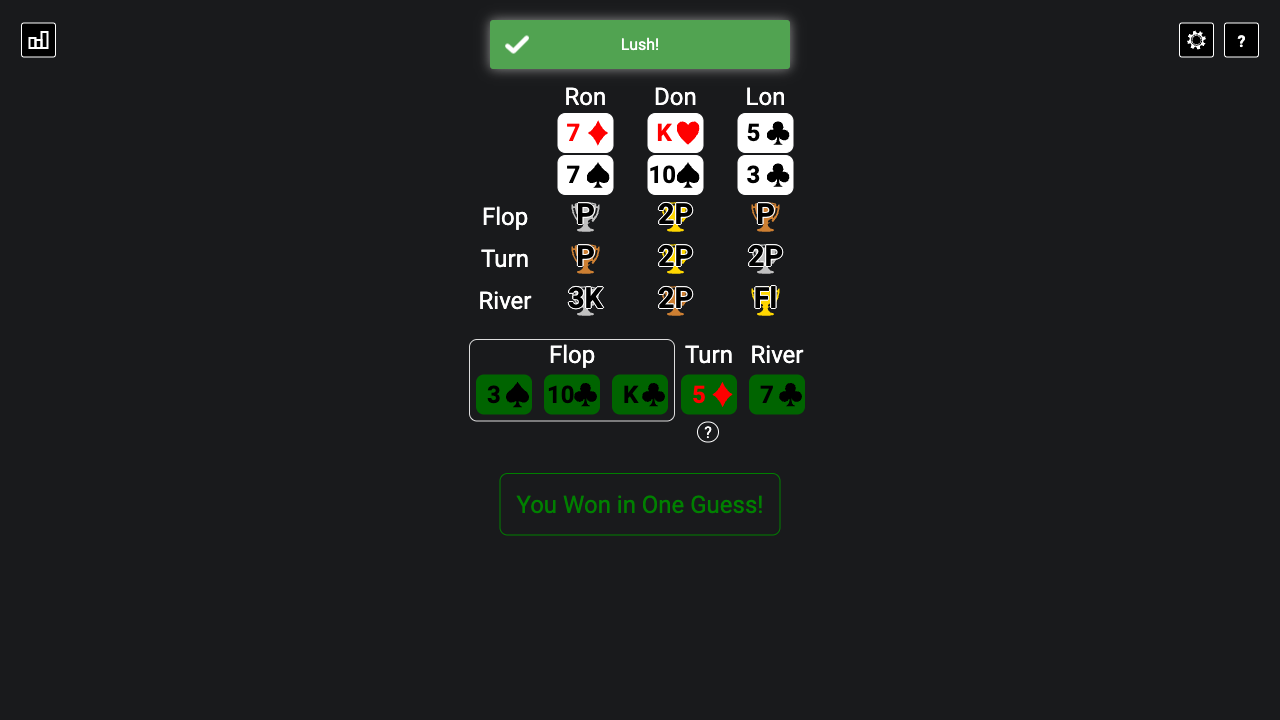
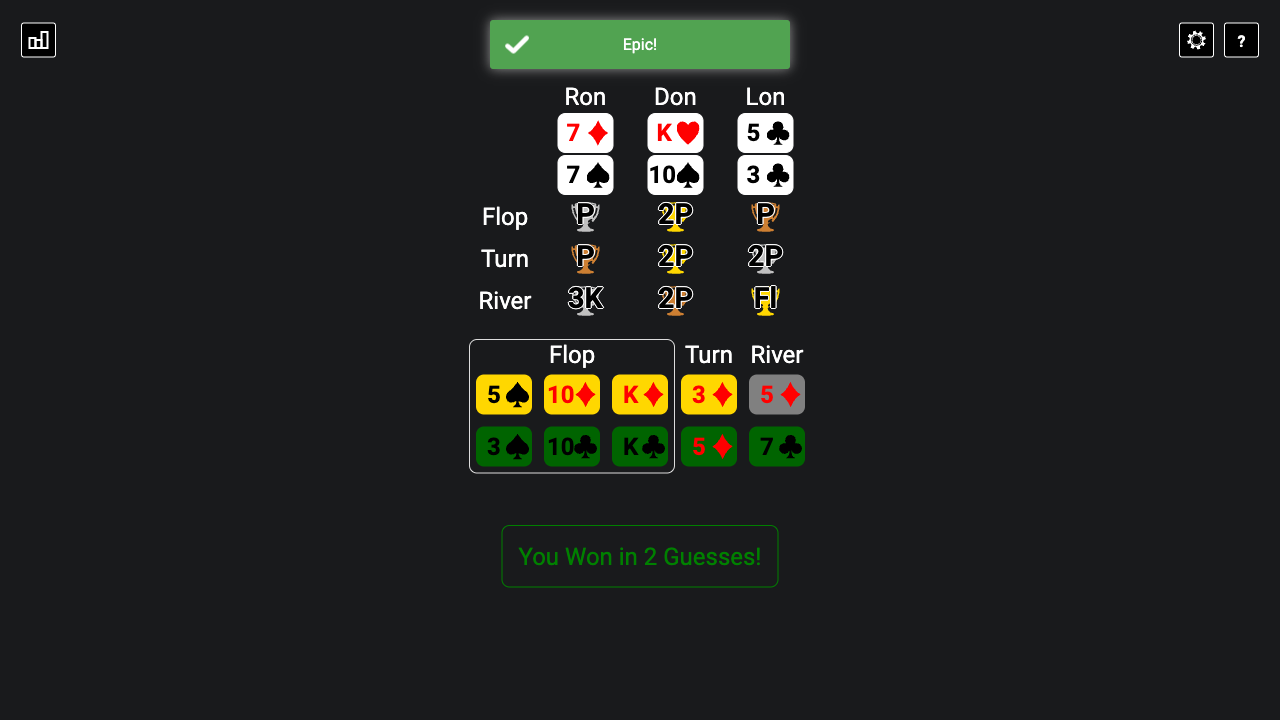
game id

Changed region(s): [[0.3438, 0.5194, 0.6562, 0.7944], [0.4688, 0.0611, 0.5, 0.0917]]

diff --git a/src/index.ts b/src/index.ts
@@ -15,6 +15,7 @@ import {
 } from "./bot/hardMode";
 import { Recommendation } from "./bot/Recommendation";
 import { Greediness } from "./entropy/entropy";
+import { DateTime } from "luxon";
 
 type Mode = "random" | "hard-mode" | "unrestricted" | "kamikaze" | "greedy";
 const modeLabel: Record<Mode, string> = {
@@ -34,7 +35,8 @@ const main = async (mode: Mode, greediness?: Greediness) => {
   await closeAllModals(page);
   const players = await getPlayers(page);
 
-  const pokle = new Pokle(0, players);
+  const gameId = Pokle.getGameIdFromDate(DateTime.now());
+  const pokle = new Pokle(gameId, players);
   pokle.solve();
 
   console.info(`Playing in ${modeLabel[mode]}`);
@@ -98,4 +100,4 @@ const main = async (mode: Mode, greediness?: Greediness) => {
   console.info(pokle.toString());
 };
 
-main("greedy");
+main("kamikaze");

diff --git a/src/pokle/Pokle.ts b/src/pokle/Pokle.ts
@@ -1,3 +1,4 @@
+import { DateTime } from "luxon";
 import { Card, CARD_RANKS, CARD_SUITS } from "../poker/Card";
 import { Hand } from "../poker/Hand";
 import {
@@ -281,6 +282,13 @@ export class Pokle {
     this.keepOnlyValidBoards();
     console.debug(`${this.validBoards?.length} valid boards`);
     this.isSolved = true;
+  }
+
+  public static getGameIdFromDate(date: DateTime): number {
+    const pokleStartDateTimestamp = 1656972000000;
+    const pokleStartDate = DateTime.fromMillis(pokleStartDateTimestamp);
+    const diff = date.diff(pokleStartDate, "days").days;
+    return Math.floor(diff);
   }
 
   public static getCardPattern(
